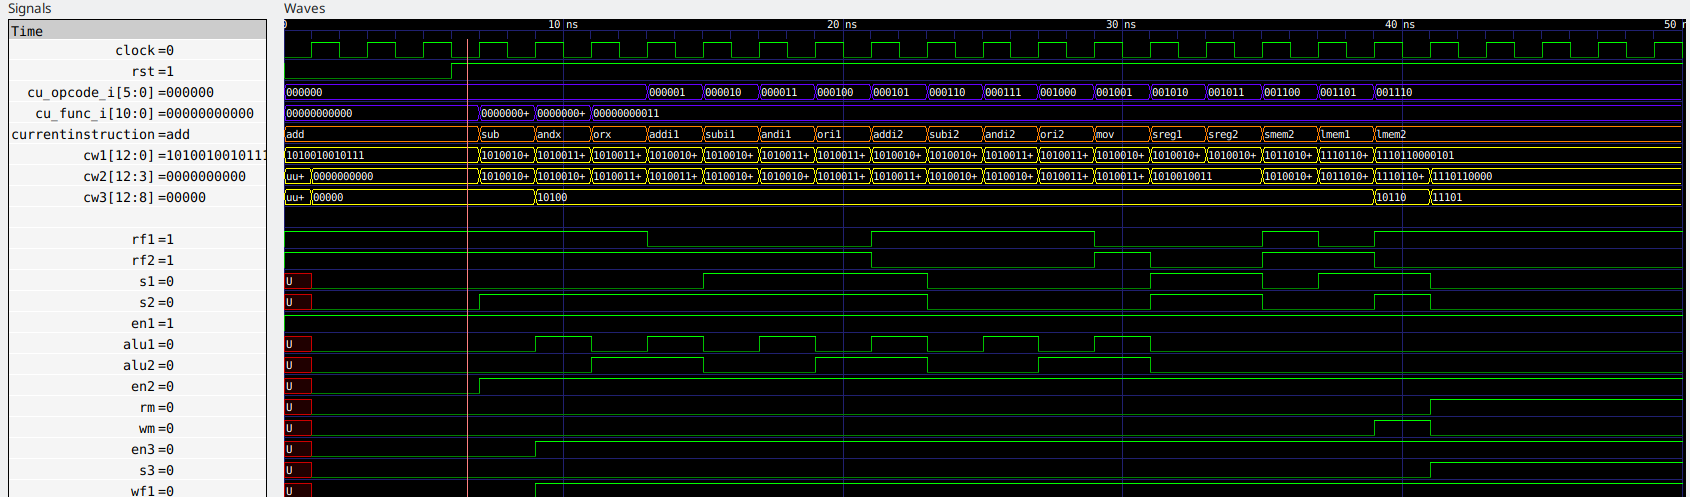
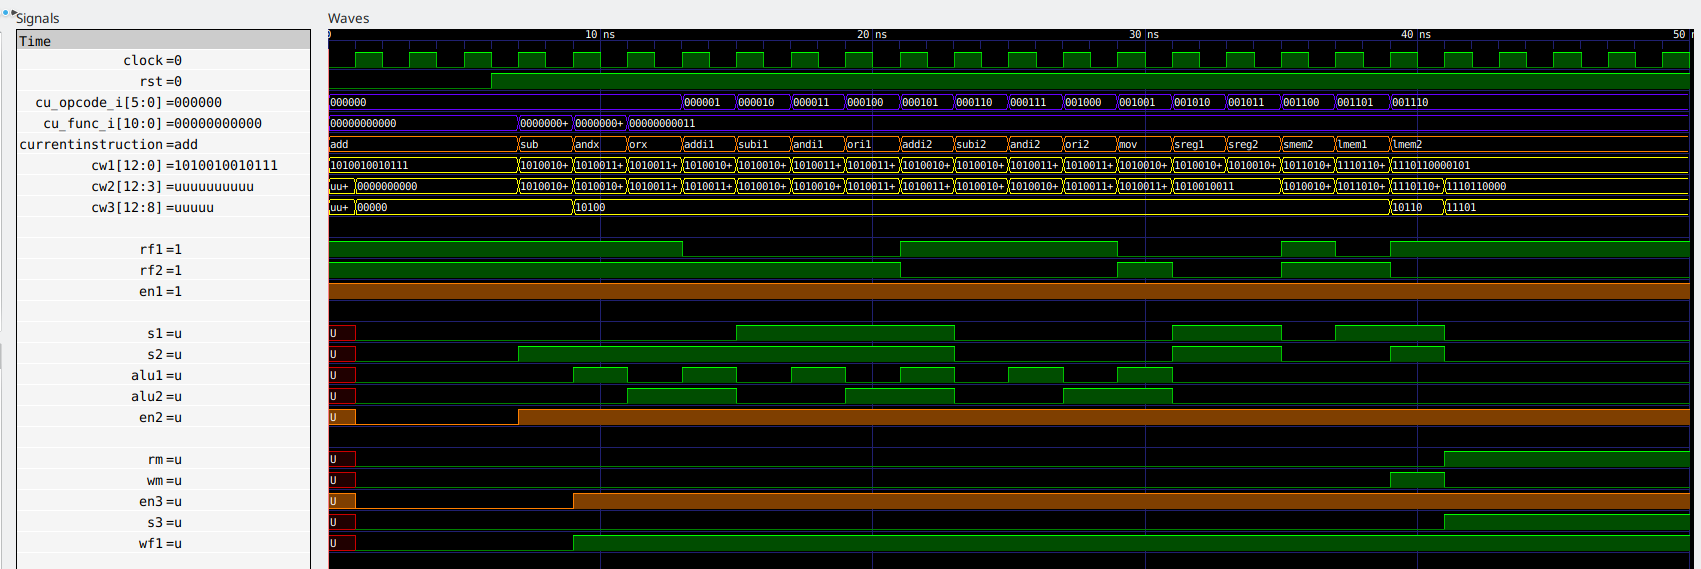
Update waveforms and explanation

diff --git a/gr15_lab04/ex4.2/sim/waveforms/README.md b/gr15_lab04/ex4.2/sim/waveforms/README.md
@@ -2,9 +2,22 @@
 
 ### **Waveforms**
 In this folder we provide 3 different waveforms files: 
+
 * The "OVERALL" one contains the entire time of simulation (going from 0 ns to 50 ns)
 * The "PART1" file contains the first 25 ns of simulation
 * The "PART2" file contains the last 25 ns of simulation
+
+#### Comments
+Since the LUT is a pure combinational component, the reset signal will affect only the two registers used to propagate the control signals to the second and third stage.
+We, as designers, suppose that the environment around our Control Unit and Datapath will not send any meaningful data to the inputs of the datapath if the Reset signal is active.
+
+The waveforms are ordered following the below schema: each control signal is mapped to a certain bit of the *cw1*, *cw2*, and *cw3* control words.
+Thus, starting from bottom to top we can read the control signals value and reconstruct the control word.
+
+We must remember that the structure is entirely pipelined and so the control signals propagate with the correct timing in order to match the proper stage.
+
+![alt text](./CW_to_signal_mapping.png)
+
 
 ### **Testbench**
 The testbench is pretty basic: we test all the possible instructions one after the other.
